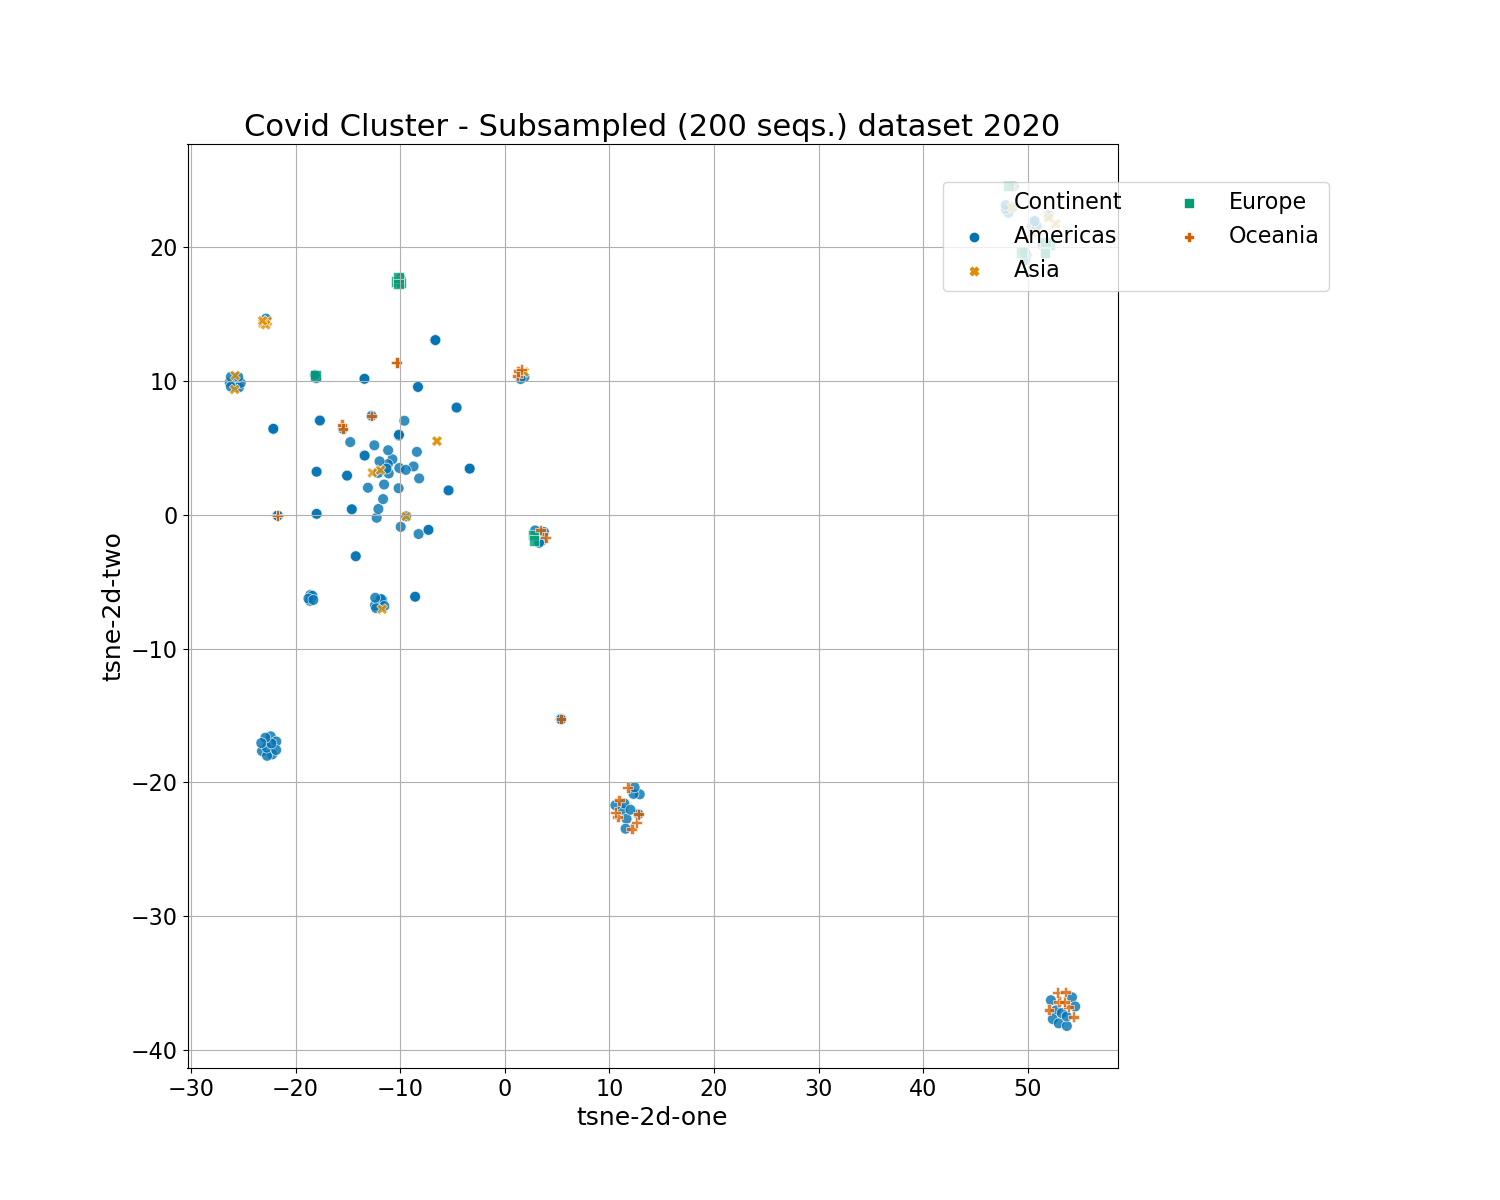
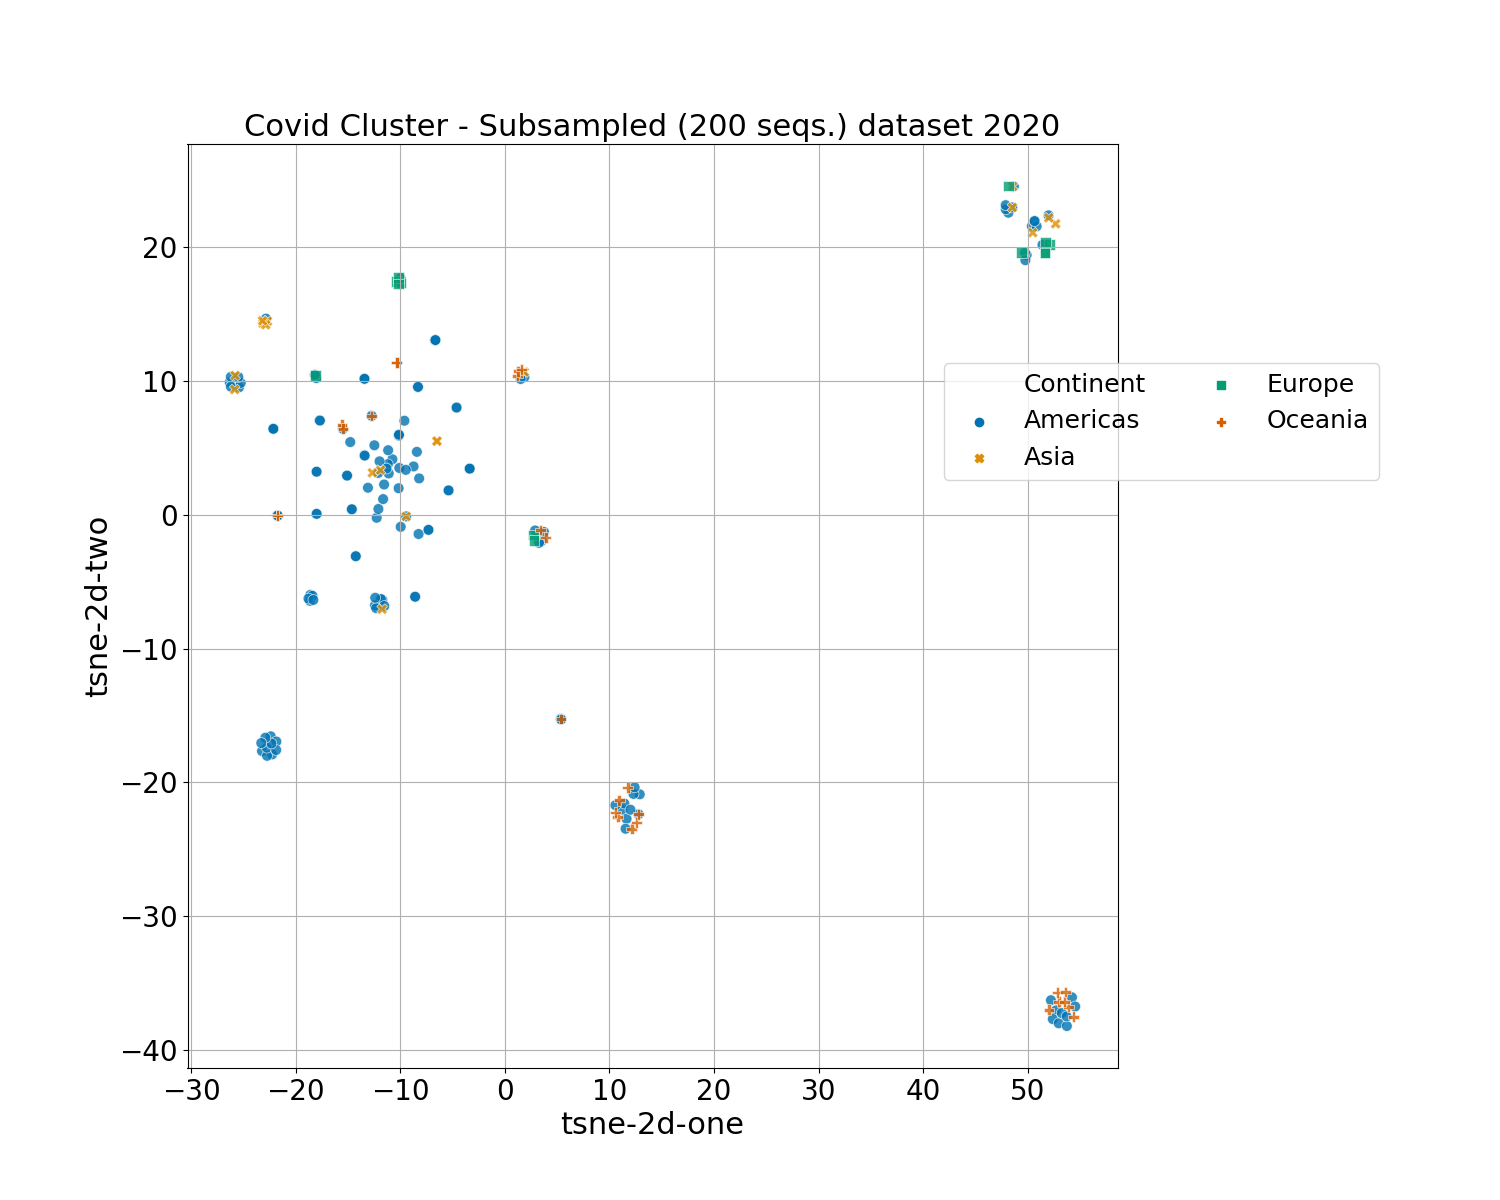
Run t-sne with varying perplexities, and geneate figures

diff --git a/pca_tsne.py b/pca_tsne.py
@@ -12,10 +12,10 @@ from sklearn.manifold import TSNE
 # Set plot params
 plt.rc('font', size=18)          # controls default text sizes
 plt.rc('axes', titlesize=22)     # fontsize of the axes title
-plt.rc('axes', labelsize=18)     # fontsize of the x and y labels
-plt.rc('xtick', labelsize=16)    # fontsize of the tick labels
-plt.rc('ytick', labelsize=16)    # fontsize of the tick labels
-plt.rc('legend', fontsize=16)    # legend fontsize
+plt.rc('axes', labelsize=22)     # fontsize of the x and y labels
+plt.rc('xtick', labelsize=20)    # fontsize of the tick labels
+plt.rc('ytick', labelsize=20)    # fontsize of the tick labels
+plt.rc('legend', fontsize=18)    # legend fontsize
 
 map = {'USA': 'Americas', 'Australia': 'Oceania', 'France': 'Europe', 'Poland': 'Europe', 'India': 'Asia', 'Greece': 'Europe', 'Japan': 'Asia',
         'Czech Republic': 'Europe', 'South Korea': 'Asia', 'Taiwan': 'Asia', 'Puerto Rico': 'Americas', 'China': 'Asia',
@@ -44,7 +44,7 @@ month_map = {
 # load data
 sf = "merged_50"
 df = pd.read_pickle(f'files/{sf}.pickle')
-df = df[:200]
+# df = df[:200]
 
 
 # add continents
@@ -116,9 +116,10 @@ sns.scatterplot(
     alpha=0.7
 )
 
+perp = 50
 if not os.path.isfile(f't_SNE-{sf}.pickle'):
     time_start = time.time()
-    tsne = TSNE(n_components=2, verbose=1, perplexity=15, n_iter=5000)
+    tsne = TSNE(n_components=2, verbose=1, perplexity=perp, n_iter=5000)
     tsne_results = tsne.fit_transform(data) # use original data
     #tsne_results = tsne.fit_transform(pca_result) # use pca data
     print('t-SNE done! Time elapsed: {} seconds'.format(time.time()-time_start))
@@ -241,14 +242,14 @@ sns.scatterplot(
 ax.grid()
 handles, labels = ax.get_legend_handles_labels()
 ax.legend_ = None
-ax.set_title(f'Covid Cluster - Subsampled (200 seqs.) dataset 2020')
+ax.set_title(f'Covid Cluster - Full dataset 2020, perplexity={perp}')
 # Shrink current axis by 20%
 box = ax.get_position()
 ax.set_position([box.x0, box.y0, box.width * 0.8, box.height])
 # Put a legend to the right of the current axis
-plt.legend(handles, labels, ncol=2, loc="center left", bbox_to_anchor=(0.8, 0.90))
+plt.legend(handles, labels, ncol=2, loc="center left", bbox_to_anchor=(0.8, 0.9))
 # plt.tight_layout()
-plt.savefig(f'figures/200_t_sne.png')
+plt.savefig(f'figures/t_sne_perplexity{perp}.png')
 
 
 # plot based on countries/continents - colors from https://material.io/design/color/the-color-system.html#tools-for-picking-colors
